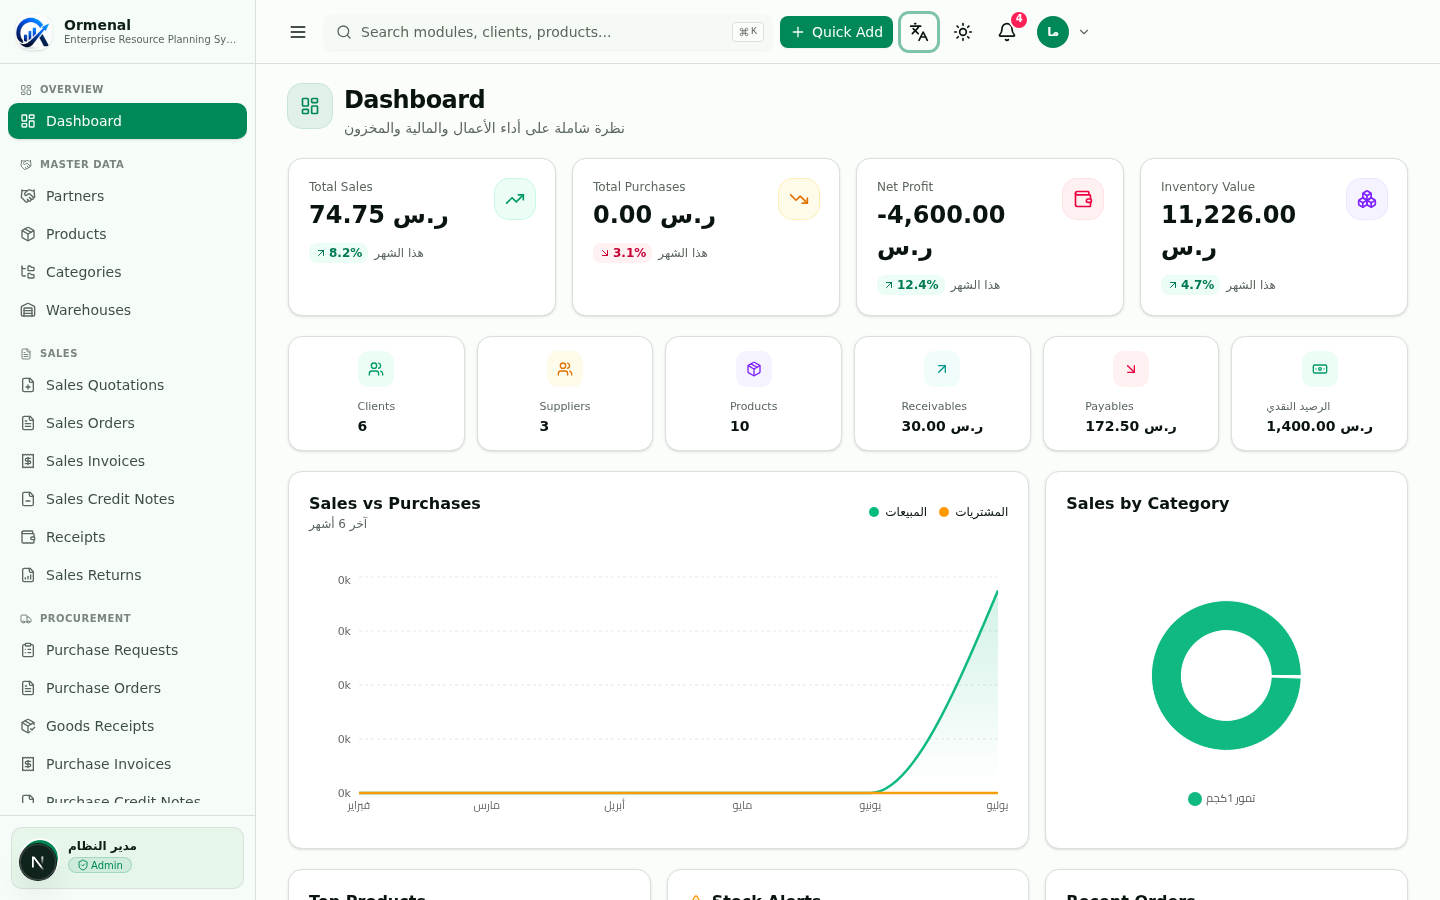
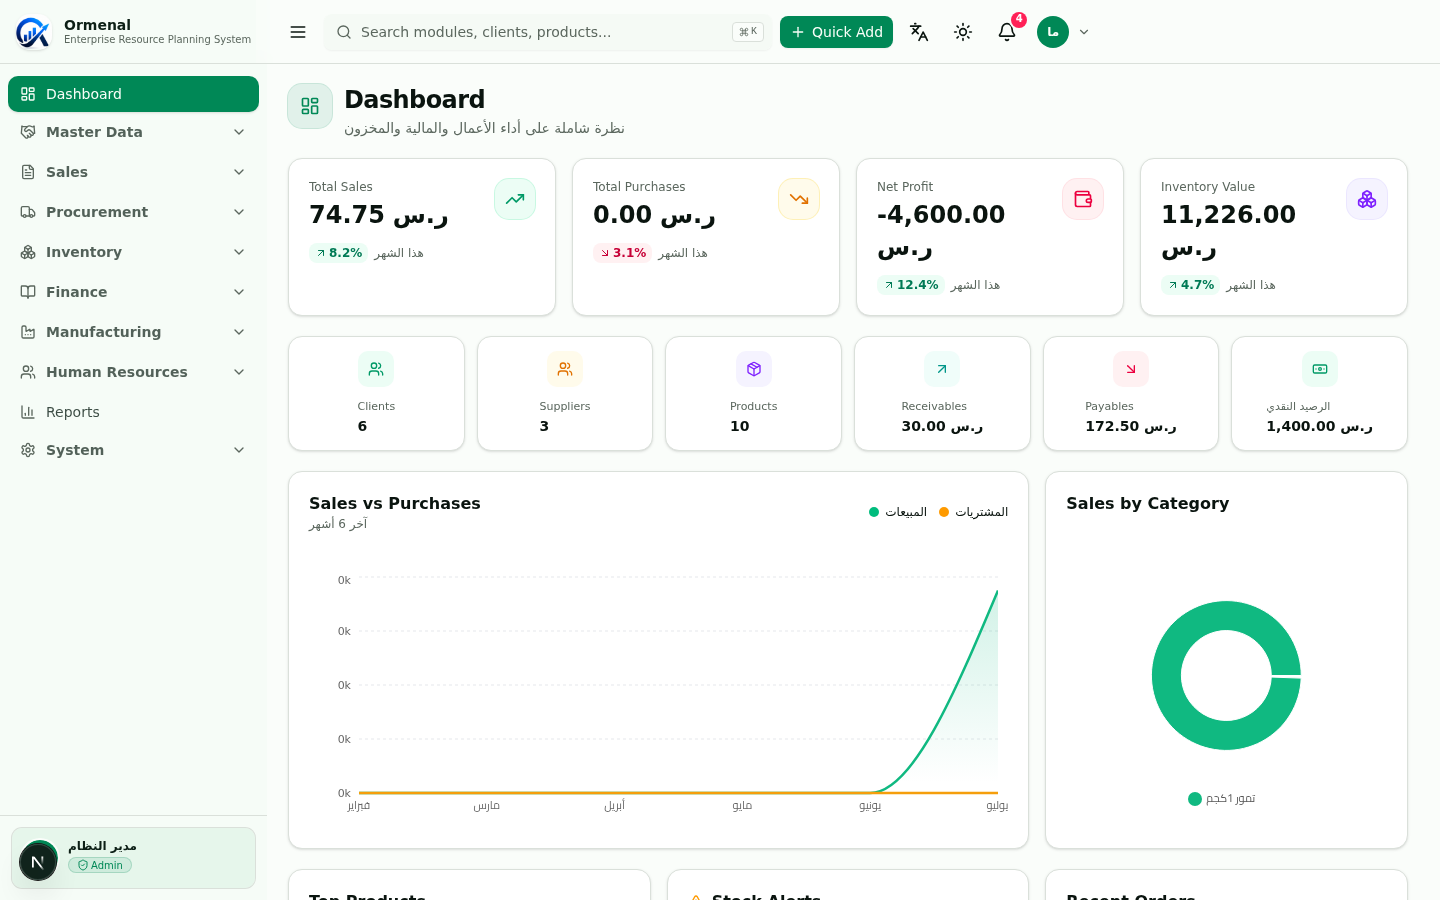
9ea6f957-df6c-411f-918f-f73a0e0ee5ab

diff --git a/src/components/erp/sidebar-nav.tsx b/src/components/erp/sidebar-nav.tsx
@@ -1,5 +1,6 @@
 'use client'
 
+import { useState } from 'react'
 import { useNav, type ModuleKey } from '@/stores/nav-store'
 import { useT } from '@/lib/i18n/use-t'
 import { cn } from '@/lib/utils'
@@ -10,8 +11,9 @@ import {
   BarChart3, Building2, Handshake, Activity, UserCircle, ShieldCheck,
   ScrollText, Bell, UserCog, Settings, ClipboardList, FileSpreadsheet,
   ArrowLeftRight, FileBarChart, FilePlus, FileMinus, PackageCheck,
-  Boxes, Factory, Cog, ClipboardList as ClipboardListIcon, Users, UsersRound,
-  CalendarDays, CalendarCheck, Banknote, type LucideIcon,
+  Boxes, Factory, Cog, Users, UsersRound,
+  CalendarDays, CalendarCheck, Banknote, ChevronDown, ChevronLeft,
+  type LucideIcon,
 } from 'lucide-react'
 import { RoleBadge } from './role-badge'
 
@@ -26,7 +28,6 @@ interface NavGroup {
   items: NavItem[]
 }
 
-// 10 unified groups per Ormenal spec (16 modules)
 const NAV: NavGroup[] = [
   {
     labelKey: 'nav.group.overview',
@@ -77,7 +78,7 @@ const NAV: NavGroup[] = [
       { key: 'stock-on-hand', labelKey: 'module.stock-on-hand', icon: Package },
       { key: 'stock-transfers', labelKey: 'module.stock-transfers', icon: ArrowLeftRight },
       { key: 'deliveries', labelKey: 'module.deliveries', icon: Truck },
-      { key: 'inventory-adjustments', labelKey: 'module.inventory-adjustments', icon: ClipboardListIcon },
+      { key: 'inventory-adjustments', labelKey: 'module.inventory-adjustments', icon: ClipboardList },
       { key: 'stock-moves', labelKey: 'module.stock-moves', icon: FileSpreadsheet },
     ],
   },
@@ -136,13 +137,41 @@ const NAV: NavGroup[] = [
 
 export function SidebarNav() {
   const { activeModule, setActiveModule } = useNav()
-  const { t } = useT()
+  const { t, isRTL } = useT()
+
+  // Track which groups are expanded. Default: the group containing the active module is expanded.
+  const [expandedGroups, setExpandedGroups] = useState<Set<string>>(() => {
+    const initial = new Set<string>()
+    for (const group of NAV) {
+      if (group.items.some((item) => item.key === activeModule)) {
+        initial.add(group.labelKey)
+      }
+    }
+    // Always expand single-item groups (like Overview, Reports)
+    for (const group of NAV) {
+      if (group.items.length === 1) initial.add(group.labelKey)
+    }
+    return initial
+  })
+
+  const toggleGroup = (labelKey: string) => {
+    setExpandedGroups((prev) => {
+      const next = new Set(prev)
+      if (next.has(labelKey)) next.delete(labelKey)
+      else next.add(labelKey)
+      return next
+    })
+  }
+
+  const handleItemClick = (key: ModuleKey) => {
+    setActiveModule(key)
+  }
 
   return (
     <div className="flex h-full flex-col bg-sidebar text-sidebar-foreground">
       {/* Brand */}
       <div className="flex items-center gap-3 px-4 h-16 shrink-0 border-b border-sidebar-border">
-        <img src="/logo.png" alt="أورمنال" className="size-9 rounded-xl shadow-sm object-contain" />
+        <img src="/logo.png" alt="أورمنال" className="size-9 rounded-xl shadow-sm object-contain shrink-0" />
         <div className="min-w-0">
           <p className="font-bold text-sm leading-tight truncate">{t('app.name')}</p>
           <p className="text-[10px] text-muted-foreground leading-tight truncate">{t('app.tagline')}</p>
@@ -151,36 +180,83 @@ export function SidebarNav() {
 
       {/* Nav */}
       <ScrollArea className="flex-1 min-h-0 px-2 py-3 scrollbar-thin">
-        <nav className="flex flex-col gap-1">
+        <nav className="flex flex-col gap-0.5">
           {NAV.map((group) => {
             const GroupIcon = group.icon
+            const isExpanded = expandedGroups.has(group.labelKey)
+            const hasActiveChild = group.items.some((item) => item.key === activeModule)
+            const isSingleItem = group.items.length === 1
+
+            // For single-item groups, render directly as a nav item (no expand/collapse)
+            if (isSingleItem) {
+              const item = group.items[0]
+              const Icon = item.icon
+              const active = activeModule === item.key
+              return (
+                <button
+                  key={group.labelKey}
+                  onClick={() => handleItemClick(item.key)}
+                  className={cn(
+                    'group flex items-center gap-2.5 rounded-lg px-3 py-2 text-sm font-medium transition-colors text-start w-full',
+                    active
+                      ? 'bg-sidebar-primary text-sidebar-primary-foreground shadow-sm'
+                      : 'text-sidebar-foreground/80 hover:bg-sidebar-accent hover:text-sidebar-accent-foreground'
+                  )}
+                >
+                  <Icon className={cn('size-4 shrink-0', active ? 'text-sidebar-primary-foreground' : 'text-muted-foreground group-hover:text-sidebar-accent-foreground')} />
+                  <span className="truncate flex-1">{t(item.labelKey)}</span>
+                </button>
+              )
+            }
+
+            // For multi-item groups, render as collapsible parent
             return (
-              <div key={group.labelKey} className="mb-2">
-                <div className="flex items-center gap-2 px-3 py-1.5 text-[10px] font-bold uppercase tracking-wider text-muted-foreground/80">
-                  <GroupIcon className="size-3" />
-                  <span>{t(group.labelKey)}</span>
-                </div>
-                <div className="flex flex-col gap-0.5">
-                  {group.items.map((item) => {
-                    const Icon = item.icon
-                    const active = activeModule === item.key
-                    return (
-                      <button
-                        key={item.key}
-                        onClick={() => setActiveModule(item.key)}
-                        className={cn(
-                          'group flex items-center gap-2.5 rounded-lg px-3 py-2 text-sm font-medium transition-colors text-start',
-                          active
-                            ? 'bg-sidebar-primary text-sidebar-primary-foreground shadow-sm'
-                            : 'text-sidebar-foreground/80 hover:bg-sidebar-accent hover:text-sidebar-accent-foreground'
-                        )}
-                      >
-                        <Icon className={cn('size-4 shrink-0', active ? 'text-sidebar-primary-foreground' : 'text-muted-foreground group-hover:text-sidebar-accent-foreground')} />
-                        <span className="truncate">{t(item.labelKey)}</span>
-                      </button>
-                    )
-                  })}
-                </div>
+              <div key={group.labelKey} className="mb-0.5">
+                {/* Parent button */}
+                <button
+                  onClick={() => toggleGroup(group.labelKey)}
+                  className={cn(
+                    'group flex items-center gap-2.5 rounded-lg px-3 py-2 text-sm font-semibold transition-colors w-full text-start',
+                    hasActiveChild
+                      ? 'text-sidebar-foreground'
+                      : 'text-sidebar-foreground/70 hover:bg-sidebar-accent hover:text-sidebar-accent-foreground'
+                  )}
+                >
+                  <GroupIcon className={cn('size-4 shrink-0', hasActiveChild ? 'text-primary' : 'text-muted-foreground group-hover:text-sidebar-accent-foreground')} />
+                  <span className="truncate flex-1">{t(group.labelKey)}</span>
+                  {/* Chevron — rotates on expand. In RTL, the chevron points left when collapsed. */}
+                  <ChevronDown
+                    className={cn(
+                      'size-4 shrink-0 text-muted-foreground transition-transform duration-200',
+                      isExpanded ? 'rotate-180' : ''
+                    )}
+                  />
+                </button>
+
+                {/* Children — collapsible */}
+                {isExpanded && (
+                  <div className="flex flex-col gap-0.5 mt-0.5 ms-4 ps-2 border-s border-sidebar-border/60">
+                    {group.items.map((item) => {
+                      const Icon = item.icon
+                      const active = activeModule === item.key
+                      return (
+                        <button
+                          key={item.key}
+                          onClick={() => handleItemClick(item.key)}
+                          className={cn(
+                            'group flex items-center gap-2.5 rounded-lg px-3 py-1.5 text-sm transition-colors text-start w-full',
+                            active
+                              ? 'bg-sidebar-primary text-sidebar-primary-foreground shadow-sm font-medium'
+                              : 'text-sidebar-foreground/70 hover:bg-sidebar-accent hover:text-sidebar-accent-foreground font-normal'
+                          )}
+                        >
+                          <Icon className={cn('size-3.5 shrink-0', active ? 'text-sidebar-primary-foreground' : 'text-muted-foreground group-hover:text-sidebar-accent-foreground')} />
+                          <span className="truncate flex-1">{t(item.labelKey)}</span>
+                        </button>
+                      )
+                    })}
+                  </div>
+                )}
               </div>
             )
           })}
